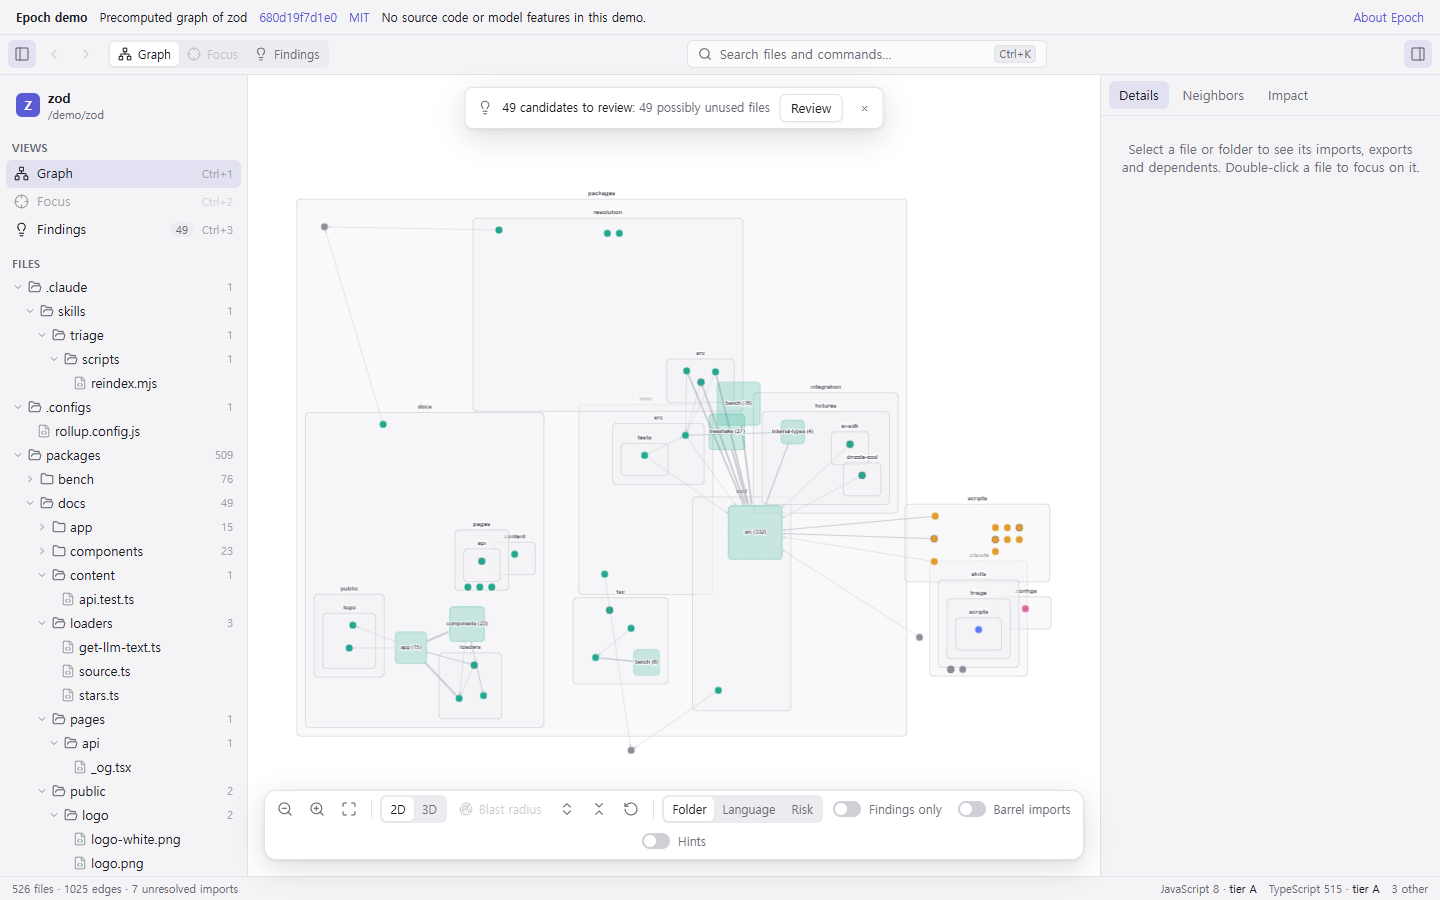
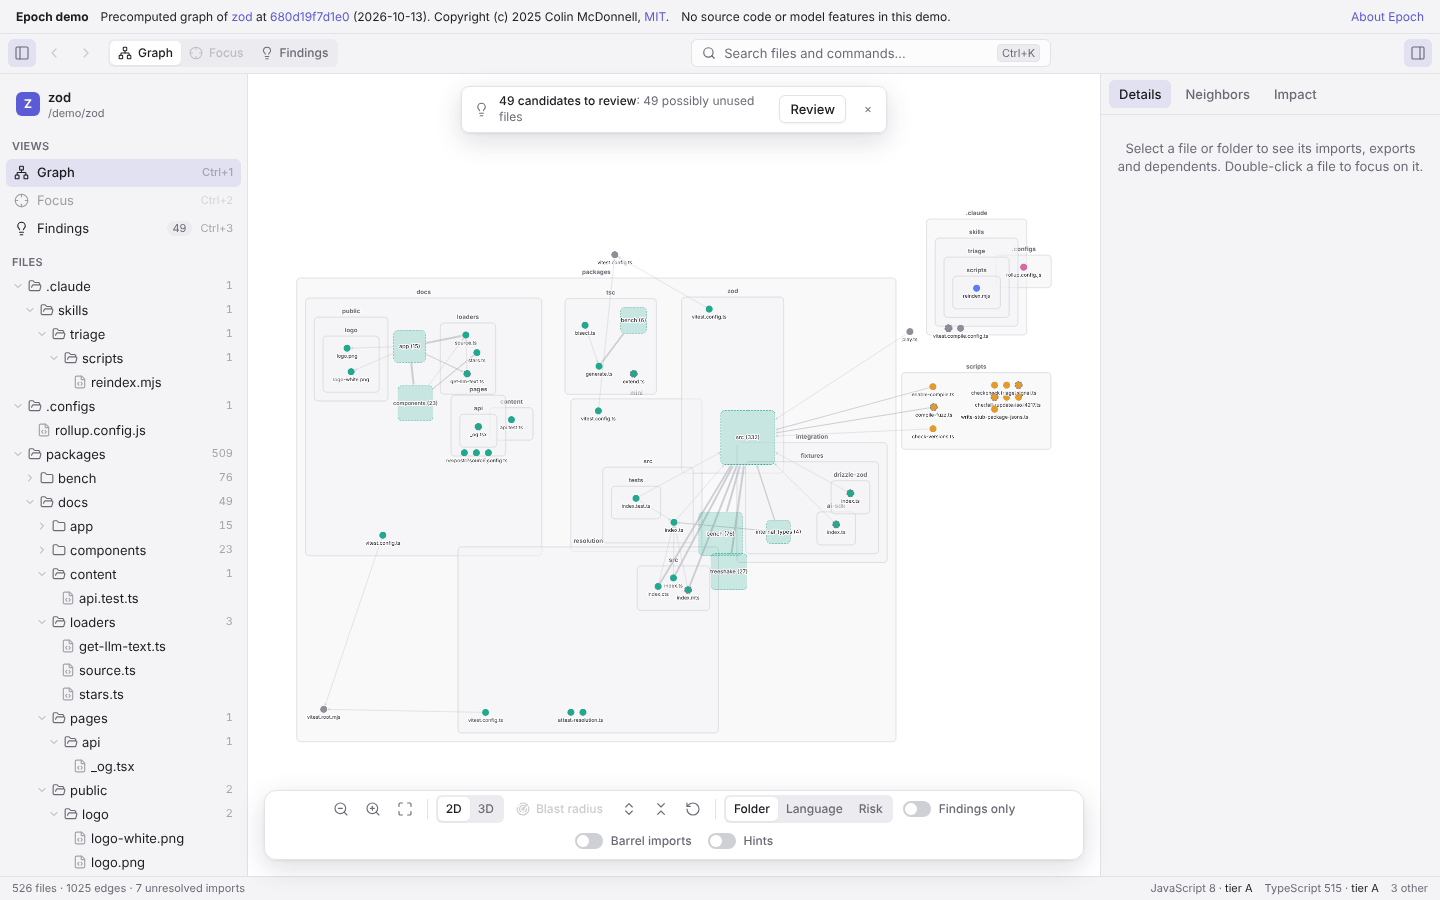
fix(site): ship the demo repos' licenses, name the copyright, cover the site in lint and wording tests
- The build ships each demo repository's license copy as data/<id>.LICENSE.txt;
  the attribution bar names the copyright line, the commit date and links the
  local copy. A failed graph load shows a message instead of a blank page.
- site.spec.ts derives the node counts from the committed graphs, checks the
  copyright and license link, that each license is served, and that a finding
  shows its caveats and evidence.
- The renderer's lint rules (text, never HTML; no Node or network imports)
  and the finding-wording test also cover apps/site/src; the wording test
  also reads the landing page and the README.
- record-demo.mjs moves to apps/site/scripts, where @playwright/test
  resolves (it could not from scripts/), honours CHROMIUM_PATH, and writes
  the screenshot as a 256-colour PNG. Screenshot and GIF re-recorded with
  it; the landing budget follows the new measurement (79641 gzip bytes).
- playwright.config.ts honours CHROMIUM_PATH and forbids .only in CI.

Claude-Session: https://claude.ai/code/session_014RJeou2zfFTtpXqRLtqNyH

diff --git a/apps/site/e2e/site.spec.ts b/apps/site/e2e/site.spec.ts
@@ -2,24 +2,45 @@ import { Graph, blastRadius } from "@epoch-dev/core";
 import { expect, test } from "@playwright/test";
 import fs from "node:fs";
 
-const zodData: unknown = JSON.parse(
-  fs.readFileSync(new URL("../data/zod.graph.json", import.meta.url), "utf8"),
-);
+// The landing page and the demo viewer: the desktop app's UI over the
+// precomputed graphs, read-only, with no request beyond the site's own files.
 
-const demos = [
-  { id: "zod", name: "zod", stats: "526 files" },
-  { id: "flask", name: "Flask", stats: "83 files" },
-  { id: "cli", name: "GitHub CLI", stats: "423 packages · 510 files" },
-] as const;
+const data = new URL("../data/", import.meta.url);
+const read = (file: string): unknown =>
+  JSON.parse(fs.readFileSync(new URL(file, data), "utf8"));
+
+interface Meta {
+  readonly id: string;
+  readonly name: string;
+  readonly url: string;
+  readonly commit: string;
+  readonly license: string;
+  readonly copyright: string;
+  readonly licenseFile: string;
+}
+const demos = ["zod", "flask", "cli"].map((id) => ({
+  meta: read(`${id}.meta.json`) as Meta,
+  graph: Graph.parse(read(`${id}.graph.json`)),
+}));
+
+/** The status bar's node counts, as StatusBar.tsx writes them. */
+function stats(graph: Graph): string {
+  const count = (kind: string) =>
+    graph.nodes.filter((n) => n.kind === kind).length;
+  const files = `${String(count("file"))} files`;
+  return count("package") > 0
+    ? `${String(count("package"))} packages · ${files}`
+    : files;
+}
 
 test("landing links to every offline demo and installer", async ({ page }) => {
   await page.goto("./");
   await expect(
     page.getByRole("heading", { name: /See the shape of/i }),
   ).toBeVisible();
-  for (const { id } of demos)
+  for (const { meta } of demos)
     await expect(
-      page.locator(`a[href="./demo.html?repo=${id}"]`).first(),
+      page.locator(`a[href="./demo.html?repo=${meta.id}"]`).first(),
     ).toBeVisible();
   await expect(page.locator('a[href$="Epoch-mac-arm64.dmg"]')).toBeVisible();
   await expect(
@@ -31,8 +52,8 @@ test("landing links to every offline demo and installer", async ({ page }) => {
   ).toBeVisible();
 });
 
-for (const demo of demos) {
-  test(`${demo.name} demo loads only its own site resources`, async ({
+for (const { meta, graph } of demos) {
+  test(`${meta.name} demo: the graph, where it came from, and nothing else loaded`, async ({
     page,
   }) => {
     const outside: string[] = [];
@@ -45,19 +66,33 @@ for (const demo of demos) {
       if (message.type() === "error") violations.push(message.text());
     });
     page.on("pageerror", (error) => violations.push(error.message));
-    await page.goto(`./demo.html?repo=${demo.id}`);
-    await expect(page.getByTestId("attribution")).toContainText(demo.name);
-    await expect(page.getByTestId("attribution")).toContainText(
-      "No source code or model features",
-    );
-    await expect(page.getByTestId("graph-stats")).toContainText(demo.stats);
+    await page.goto(`./demo.html?repo=${meta.id}`);
+    const attribution = page.getByTestId("attribution");
+    await expect(attribution).toContainText(meta.name);
+    await expect(attribution).toContainText(meta.commit.slice(0, 12));
+    await expect(attribution).toContainText(meta.copyright);
+    await expect(
+      attribution.getByRole("link", { name: meta.license }),
+    ).toHaveAttribute("href", `./data/${meta.licenseFile}`);
+    await expect(attribution).toContainText("No source code or model features");
+    await expect(page.getByTestId("graph-stats")).toContainText(stats(graph));
     expect(await page.evaluate(() => "epoch" in window)).toBe(false);
     expect(outside).toEqual([]);
     expect(violations).toEqual([]);
   });
 }
 
-test("zod shows reviewable findings in the static app", async ({ page }) => {
+test("each demo repository's license text is served", async ({ request }) => {
+  for (const { meta } of demos) {
+    const res = await request.get(`./data/${meta.licenseFile}`);
+    expect(res.status()).toBe(200);
+    expect(await res.text()).toContain(meta.copyright);
+  }
+});
+
+test("zod shows reviewable findings with caveats and evidence", async ({
+  page,
+}) => {
   await page.goto("./demo.html?repo=zod");
   await expect(page.getByTestId("findings-banner")).toBeVisible();
   await page
@@ -67,14 +102,21 @@ test("zod shows reviewable findings in the static app", async ({ page }) => {
   await expect(
     page.getByText("Candidates for review, not verdicts"),
   ).toBeVisible();
+  await page.locator("button[data-finding-id]").first().click();
+  const details = page.getByTestId("finding-details");
+  await expect(details).toContainText("Keep in mind");
+  await expect(details).toContainText("Why it was flagged");
 });
 
 test("zod blast radius matches the core calculation", async ({ page }) => {
+  const zod = demos.find((d) => d.meta.id === "zod");
+  if (!zod) throw new Error("no zod demo");
   const nodeId = "packages/zod/src/v4/core/versions.ts";
-  const expected = blastRadius(Graph.parse(zodData), nodeId, {
+  const expected = blastRadius(zod.graph, nodeId, {
     mode: "certain",
     includeTypeOnly: true,
   });
+  expect(expected.total).toBeGreaterThan(0);
   await page.goto("./demo.html?repo=zod");
   await page.getByRole("button", { name: "Search files and commands" }).click();
   await page

diff --git a/apps/site/src/main.tsx b/apps/site/src/main.tsx
@@ -3,7 +3,6 @@ import { createRoot } from "react-dom/client";
 import { Graph } from "@epoch-dev/core";
 import { App } from "@epoch-dev/ui/app";
 import { createStaticApi } from "@epoch-dev/ui/api";
-import repos from "../data/repos.json";
 import "./demo.css";
 
 const demos = {
@@ -25,48 +24,67 @@ const demos = {
 } as const;
 
 type DemoId = keyof typeof demos;
+/** What site-data.mjs records next to each graph (data/<id>.meta.json). */
 interface DemoMeta {
   readonly name: string;
   readonly url: string;
   readonly commit: string;
+  readonly commitDate: string;
   readonly license: string;
+  readonly copyright: string;
+  readonly licenseFile: string;
 }
 
-const root = document.getElementById("root");
-if (!root) throw new Error("demo.html has no #root element");
+const element = document.getElementById("root");
+if (!element) throw new Error("demo.html has no #root element");
+const root = createRoot(element);
 
 const param = new URLSearchParams(location.search).get("repo");
 const id: DemoId = param === "flask" || param === "cli" ? param : "zod";
 
-void demos[id]().then(([graphModule, metaModule]) => {
-  const graph = Graph.parse(graphModule.default);
-  const meta = metaModule.default as DemoMeta;
-  const project = { root: `/demo/${id}`, name: meta.name };
-  const api = createStaticApi(project, graph);
-  const commitUrl = `${meta.url}/tree/${meta.commit}`;
-  const upstream = repos.find((repo) => repo.id === id);
-  if (!upstream) throw new Error(`No attribution for ${id}`);
-  const licenseUrl = `${meta.url}/blob/${meta.commit}/${upstream.licenseFile}`;
-  document.title = `${meta.name} · Epoch demo`;
-  createRoot(root).render(
-    <StrictMode>
-      <div className="demo-attribution" data-testid="attribution">
-        <strong>Epoch demo</strong>
-        <span>Precomputed graph of {meta.name}</span>
-        <a href={commitUrl} rel="noopener noreferrer" target="_blank">
-          {meta.commit.slice(0, 12)}
-        </a>
-        <a href={licenseUrl} rel="noopener noreferrer" target="_blank">
-          {meta.license}
-        </a>
-        <span>No source code or model features in this demo.</span>
-        <a className="push" href="./">
-          About Epoch
-        </a>
-      </div>
-      <div className="demo-app">
-        <App api={api} initial={{ project, graph }} />
-      </div>
-    </StrictMode>,
-  );
-});
+demos[id]()
+  .then(([graphModule, metaModule]) => {
+    const graph = Graph.parse(graphModule.default);
+    const meta = metaModule.default as DemoMeta;
+    const project = { root: `/demo/${id}`, name: meta.name };
+    const api = createStaticApi(project, graph);
+    document.title = `${meta.name} · Epoch demo`;
+    root.render(
+      <StrictMode>
+        <div className="demo-attribution" data-testid="attribution">
+          <strong>Epoch demo</strong>
+          <span>
+            Precomputed graph of{" "}
+            <a href={meta.url} rel="noopener noreferrer" target="_blank">
+              {meta.name}
+            </a>{" "}
+            at{" "}
+            <a
+              href={`${meta.url}/tree/${meta.commit}`}
+              rel="noopener noreferrer"
+              target="_blank"
+            >
+              {meta.commit.slice(0, 12)}
+            </a>{" "}
+            ({meta.commitDate.slice(0, 10)}). {meta.copyright},{" "}
+            <a href={`./data/${meta.licenseFile}`}>{meta.license}</a>.
+          </span>
+          <span>No source code or model features in this demo.</span>
+          <a className="push" href="./">
+            About Epoch
+          </a>
+        </div>
+        <div className="demo-app">
+          <App api={api} initial={{ project, graph }} />
+        </div>
+      </StrictMode>,
+    );
+  })
+  .catch((error: unknown) => {
+    console.error(error);
+    root.render(
+      <p className="demo-error" role="alert">
+        This demo could not load. <a href="./">Back to Epoch</a>
+      </p>,
+    );
+  });

diff --git a/apps/site/vite.config.ts b/apps/site/vite.config.ts
@@ -1,11 +1,35 @@
 import tailwindcss from "@tailwindcss/vite";
 import react from "@vitejs/plugin-react";
+import { readFileSync, readdirSync } from "node:fs";
+import { join } from "node:path";
 import { fileURLToPath } from "node:url";
-import { defineConfig } from "vite";
+import { defineConfig, type Plugin } from "vite";
+
+const data = fileURLToPath(new URL("./data/", import.meta.url));
+
+/**
+ * Ships each demo repository's license text, copied by site-data.mjs, as
+ * data/<id>.LICENSE.txt next to the demo that describes its code.
+ */
+function licenses(): Plugin {
+  return {
+    name: "epoch-site-licenses",
+    generateBundle() {
+      for (const file of readdirSync(data).filter((f) =>
+        f.endsWith(".LICENSE.txt"),
+      ))
+        this.emitFile({
+          type: "asset",
+          fileName: `data/${file}`,
+          source: readFileSync(join(data, file)),
+        });
+    },
+  };
+}
 
 export default defineConfig({
   base: "/Epoch/",
-  plugins: [react(), tailwindcss()],
+  plugins: [react(), tailwindcss(), licenses()],
   worker: { format: "es" },
   build: {
     outDir: "dist",

diff --git a/apps/site/playwright.config.ts b/apps/site/playwright.config.ts
@@ -1,13 +1,19 @@
 import { defineConfig, devices } from "@playwright/test";
 
+// The built site, served under /Epoch/ as GitHub Pages serves it.
+// CHROMIUM_PATH picks a Chromium other than Playwright's own.
 export default defineConfig({
   testDir: "./e2e",
   timeout: 30_000,
   retries: process.env.CI ? 1 : 0,
+  forbidOnly: !!process.env.CI,
   use: {
     ...devices["Desktop Chrome"],
     ...(process.env.EPOCH_SITE_BROWSER_CHANNEL === "chrome"
       ? { channel: "chrome" }
+      : {}),
+    ...(process.env.CHROMIUM_PATH
+      ? { launchOptions: { executablePath: process.env.CHROMIUM_PATH } }
       : {}),
     baseURL: "http://127.0.0.1:4173/Epoch/",
   },

diff --git a/packages/findings/src/wording.test.ts b/packages/findings/src/wording.test.ts
@@ -16,6 +16,7 @@ import {
  */
 
 const PACKAGES = fileURLToPath(new URL("../../", import.meta.url));
+const ROOT = path.dirname(PACKAGES);
 
 /** Phrases that state something is dead or unused as a fact. */
 const CERTAIN =
@@ -39,6 +40,10 @@ const FILES = [
   path.join(PACKAGES, "findings/src/dead-branch.ts"),
   path.join(PACKAGES, "findings/src/stale-flag.ts"),
   path.join(PACKAGES, "findings/src/unreachable.ts"),
+  // The static site and the README describe findings to visitors.
+  ...sources(path.join(ROOT, "apps/site/src")),
+  path.join(ROOT, "apps/site/index.html"),
+  path.join(ROOT, "README.md"),
 ];
 
 describe("finding wording", () => {

diff --git a/apps/site/src/demo.css b/apps/site/src/demo.css
@@ -16,8 +16,9 @@ body,
 
 .demo-attribution {
   display: flex;
+  flex-wrap: wrap;
   align-items: center;
-  gap: 0.75rem;
+  gap: 0.25rem 0.75rem;
   padding: 0.55rem 1rem;
   background: var(--epoch-chrome);
   border-bottom: 1px solid var(--epoch-border);
@@ -37,4 +38,11 @@ body,
 .demo-app {
   min-height: 0;
   flex: 1;
+}
+
+.demo-error {
+  margin: 2rem auto;
+  font:
+    14px system-ui,
+    sans-serif;
 }
